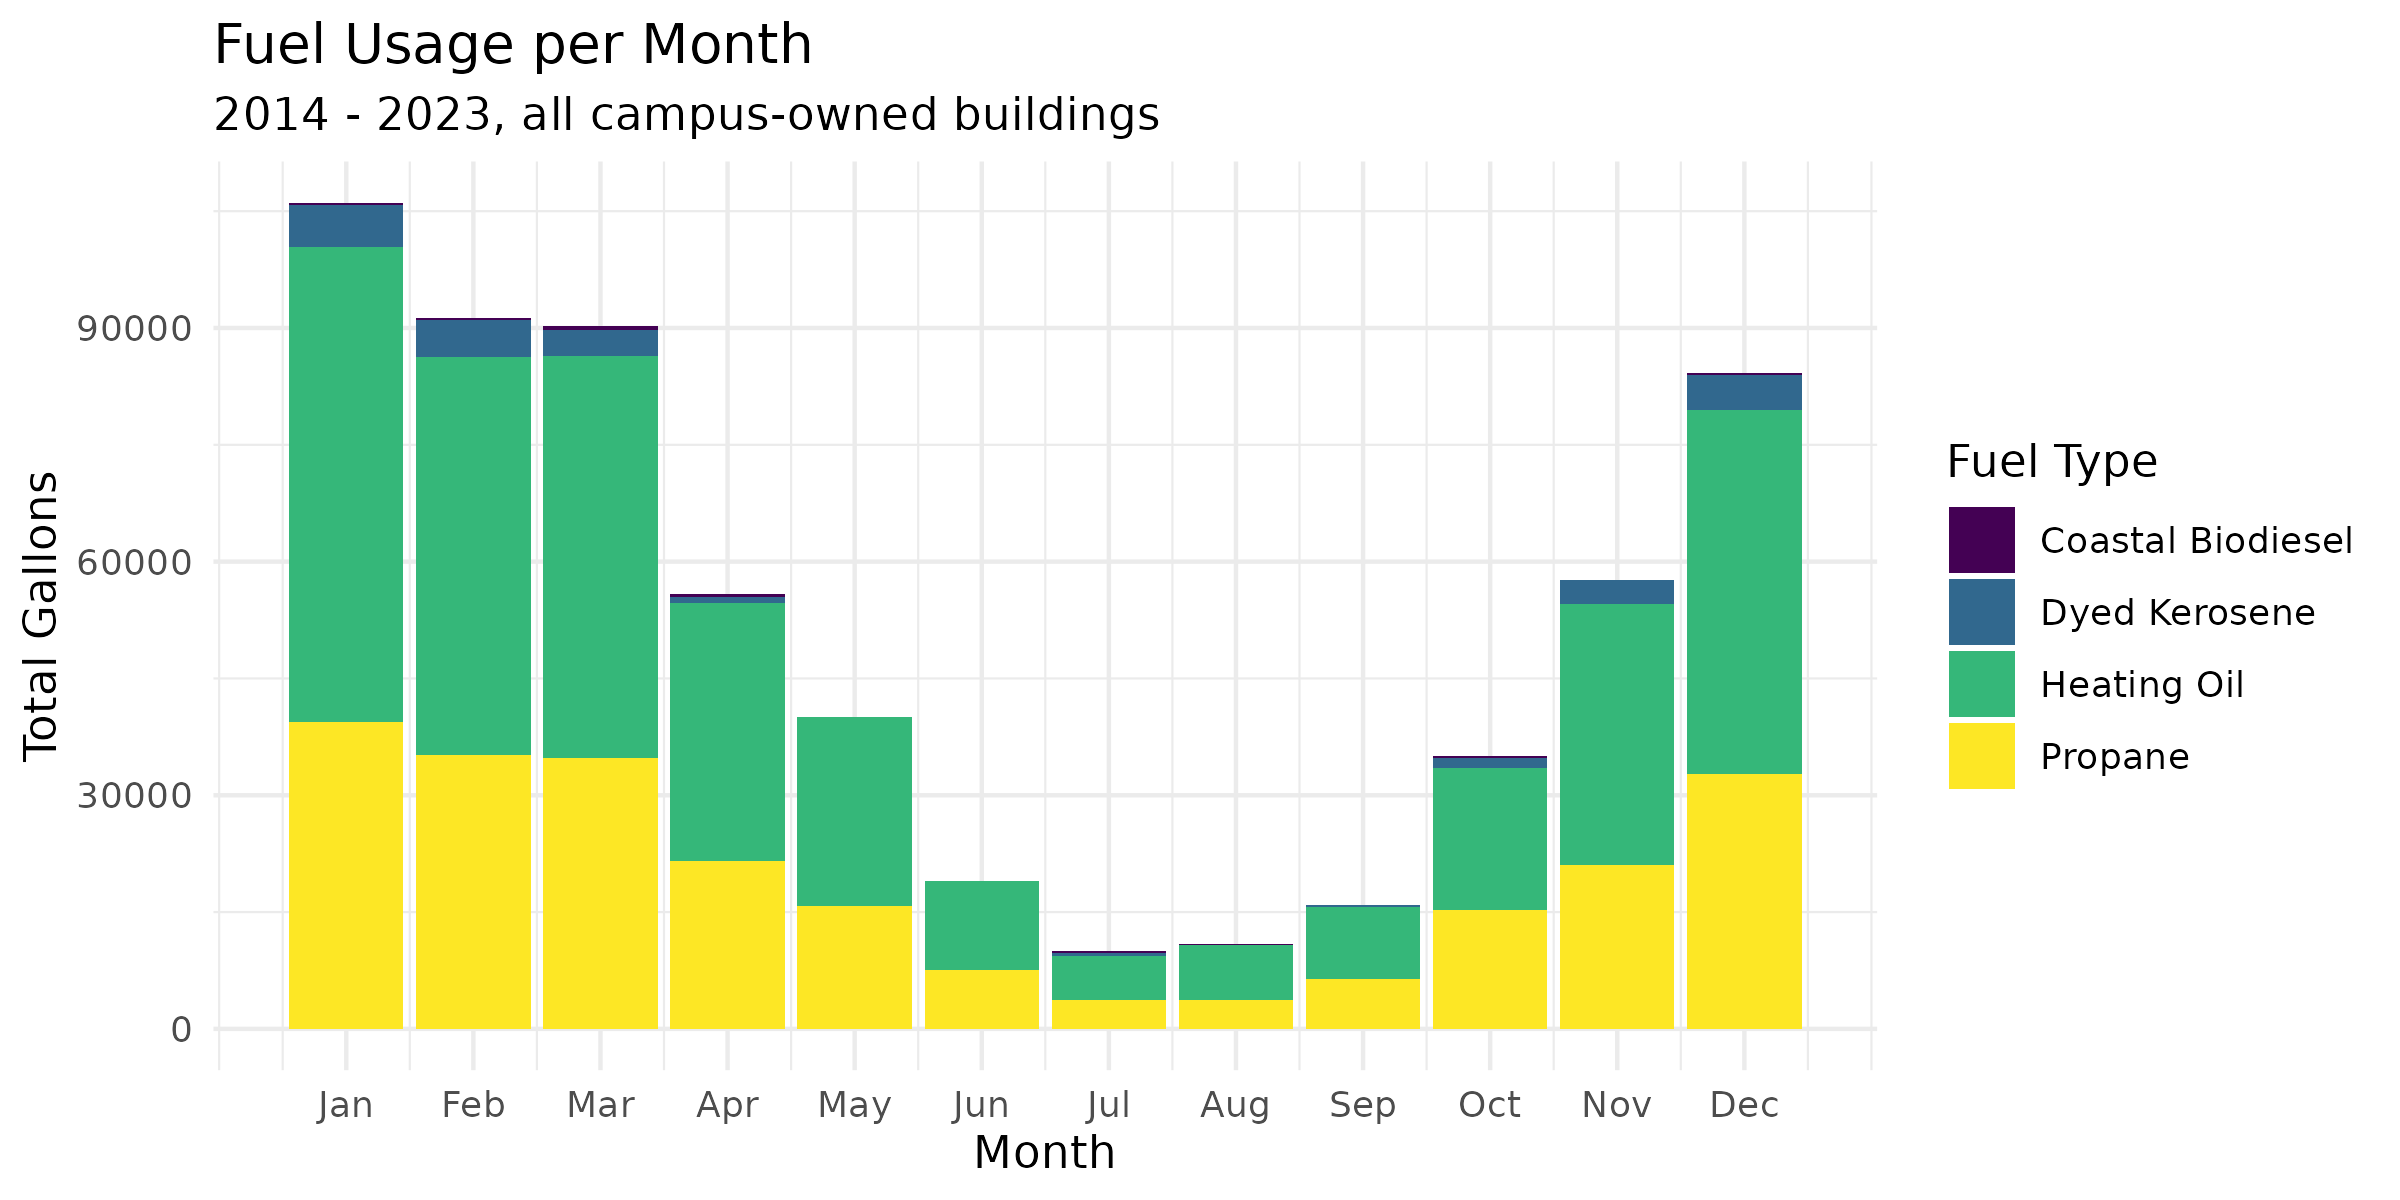
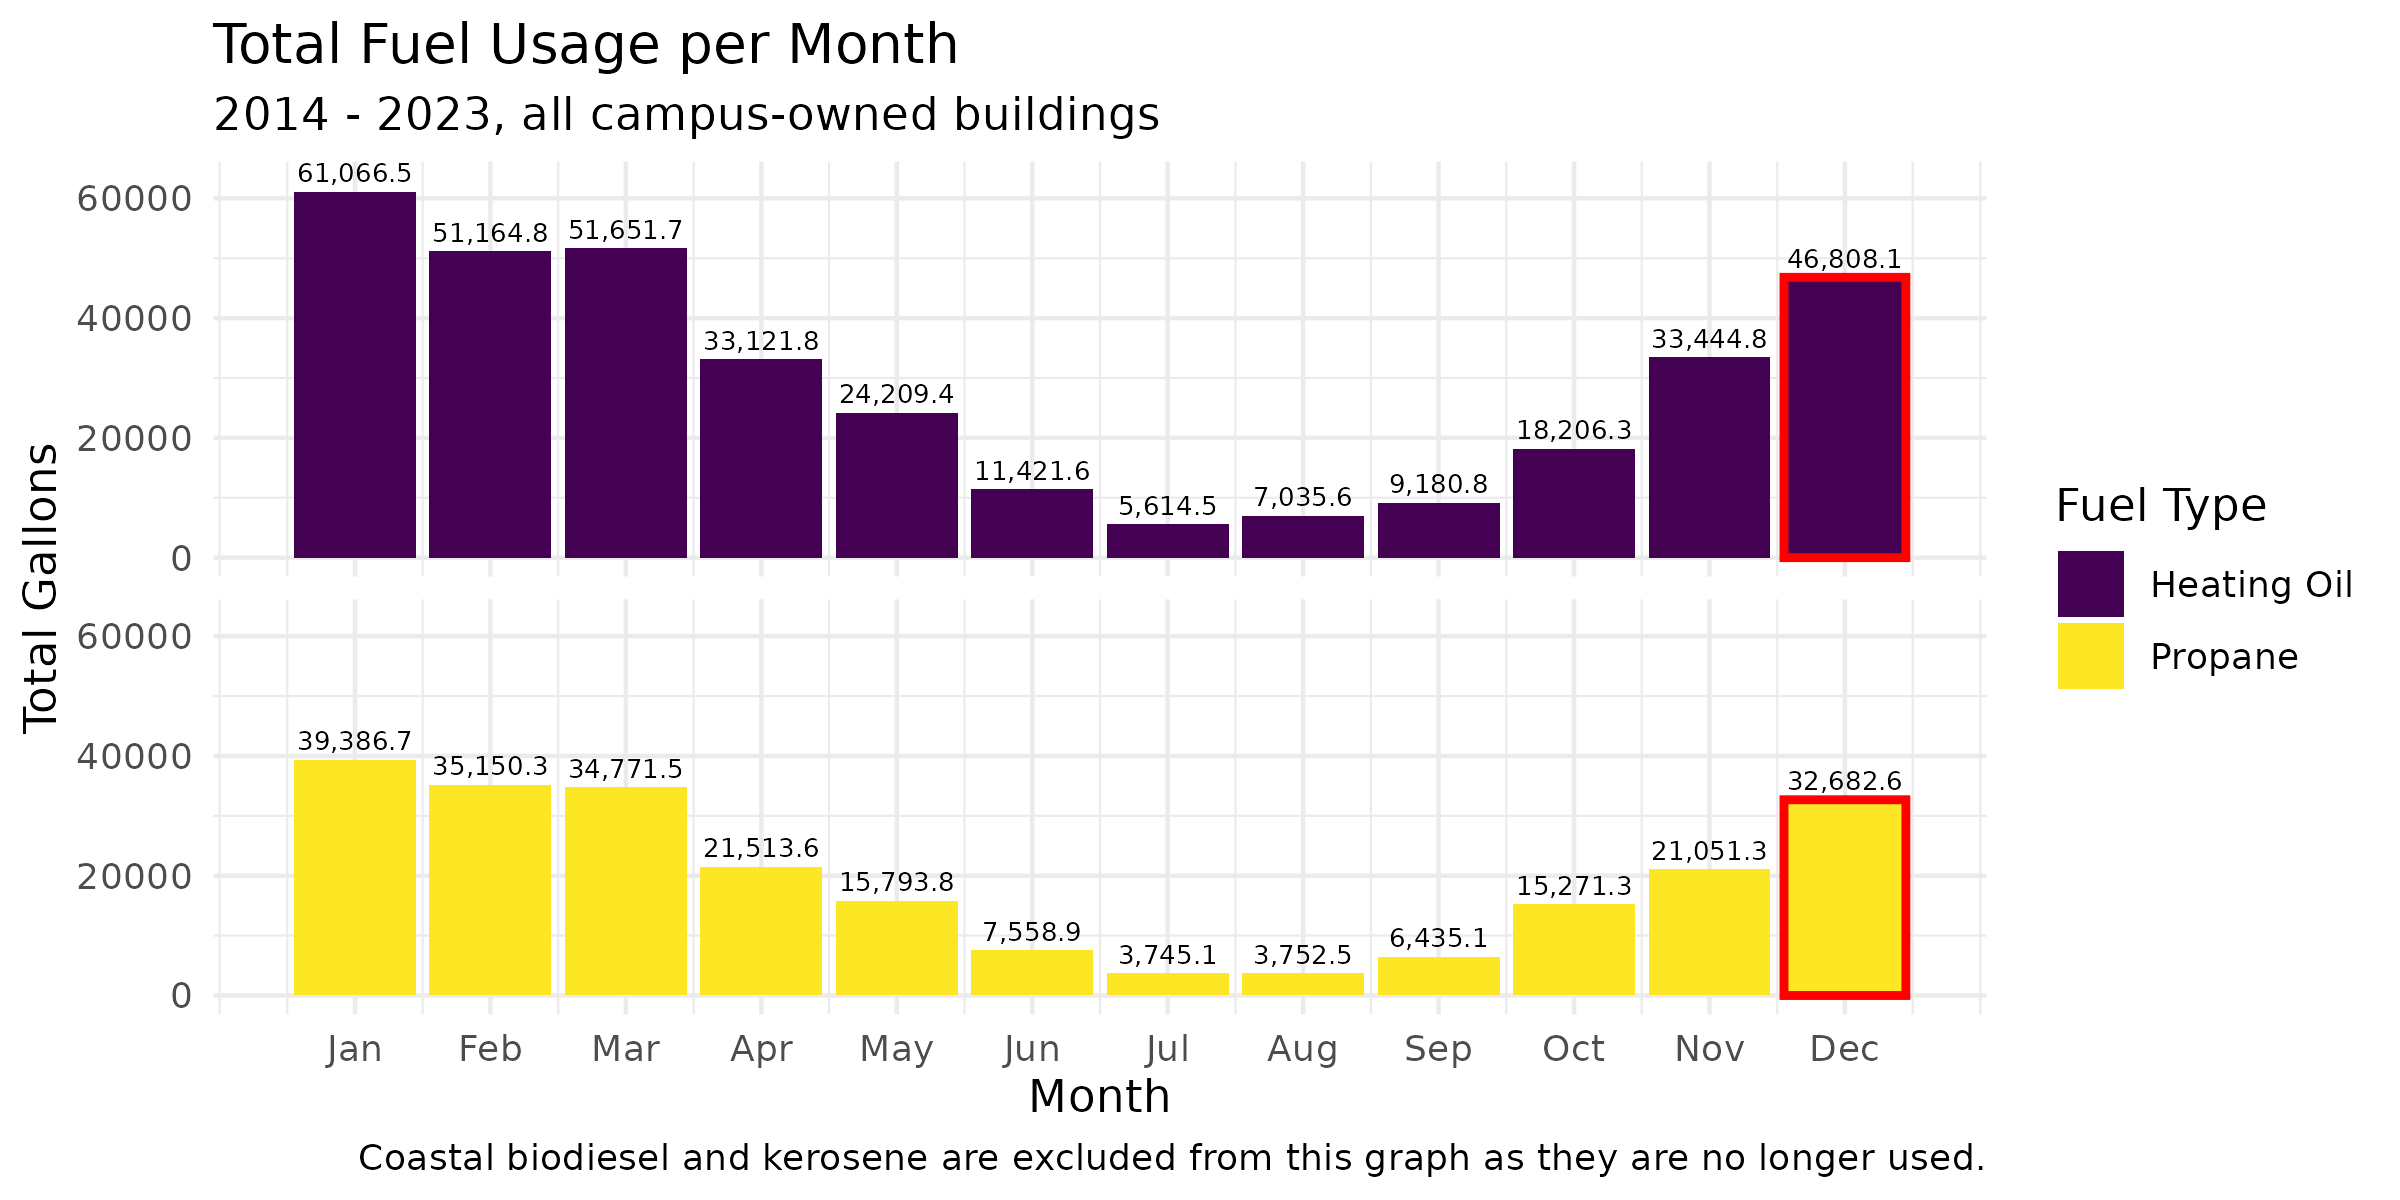
Facet total fuel usage per month plot

diff --git a/memo/memo.md b/memo/memo.md
@@ -255,7 +255,7 @@ ggsave("Buildings-Using-Most-Fuel.png")
 
     ## Saving 7 x 5 in image
 
-### Plot 3: 3 biggest over time
+### Plot 3: 3 biggest consumers over time
 
 ``` r
 fuels |>
@@ -293,25 +293,42 @@ fuels |>
 ggsave("3-biggest-consumers.png", width = 8, height = 4)
 ```
 
-### Plot 4: Fuel usage per month
+### Plot 4: Total fuel usage by month
 
 ``` r
 fuels |> 
-  filter(Year < 2024) |>
+  filter(Year < 2024, Fuel_type %in% c("Heating Oil", "Propane")) |>
   group_by(Month, Fuel_type) |>
   summarize(month_sum = sum(Gallons), .groups = "drop") |>
   ggplot(aes(x = Month, y = month_sum, fill = Fuel_type)) +
   geom_col() +
-  labs(title = "Fuel Usage per Month",
+  geom_col(data = . %>% filter(Month == 12), color = "red", size = 1, show.legend = FALSE) +
+  scale_y_continuous(labels = scales::comma) +
+  ylim(0, 63000) +
+  scale_x_continuous(breaks = 1:12, labels = month.abb) +
+ facet_wrap(~ Fuel_type, ncol = 1) +    geom_text(aes(x = Month, y = month_sum, label = scales::comma(month_sum)), 
+            vjust = -0.5, 
+            size = 2.2) +
+  labs(title = "Total Fuel Usage per Month",
        subtitle = "2014 - 2023, all campus-owned buildings",
        y = "Total Gallons",
-       fill = "Fuel Type") +
+       fill = "Fuel Type",
+       caption = "Coastal biodiesel and kerosene are excluded from this graph as they are no longer used.") +
   theme_minimal() +
-  scale_x_continuous(breaks = 1:12, labels = month.abb) +
+  theme(strip.text = element_blank()) +
   scale_fill_viridis_d()
 ```
 
-![](memo_files/figure-gfm/fuel_per_month-1.png)<!-- -->
+    ## Warning: Using `size` aesthetic for lines was deprecated in ggplot2 3.4.0.
+    ## ℹ Please use `linewidth` instead.
+    ## This warning is displayed once every 8 hours.
+    ## Call `lifecycle::last_lifecycle_warnings()` to see where this warning was
+    ## generated.
+
+    ## Scale for y is already present.
+    ## Adding another scale for y, which will replace the existing scale.
+
+![](memo_files/figure-gfm/fuel_by_month-1.png)<!-- -->
 
 ``` r
 ggsave("fuel_usage_per_month.png", width = 8, height = 4)
